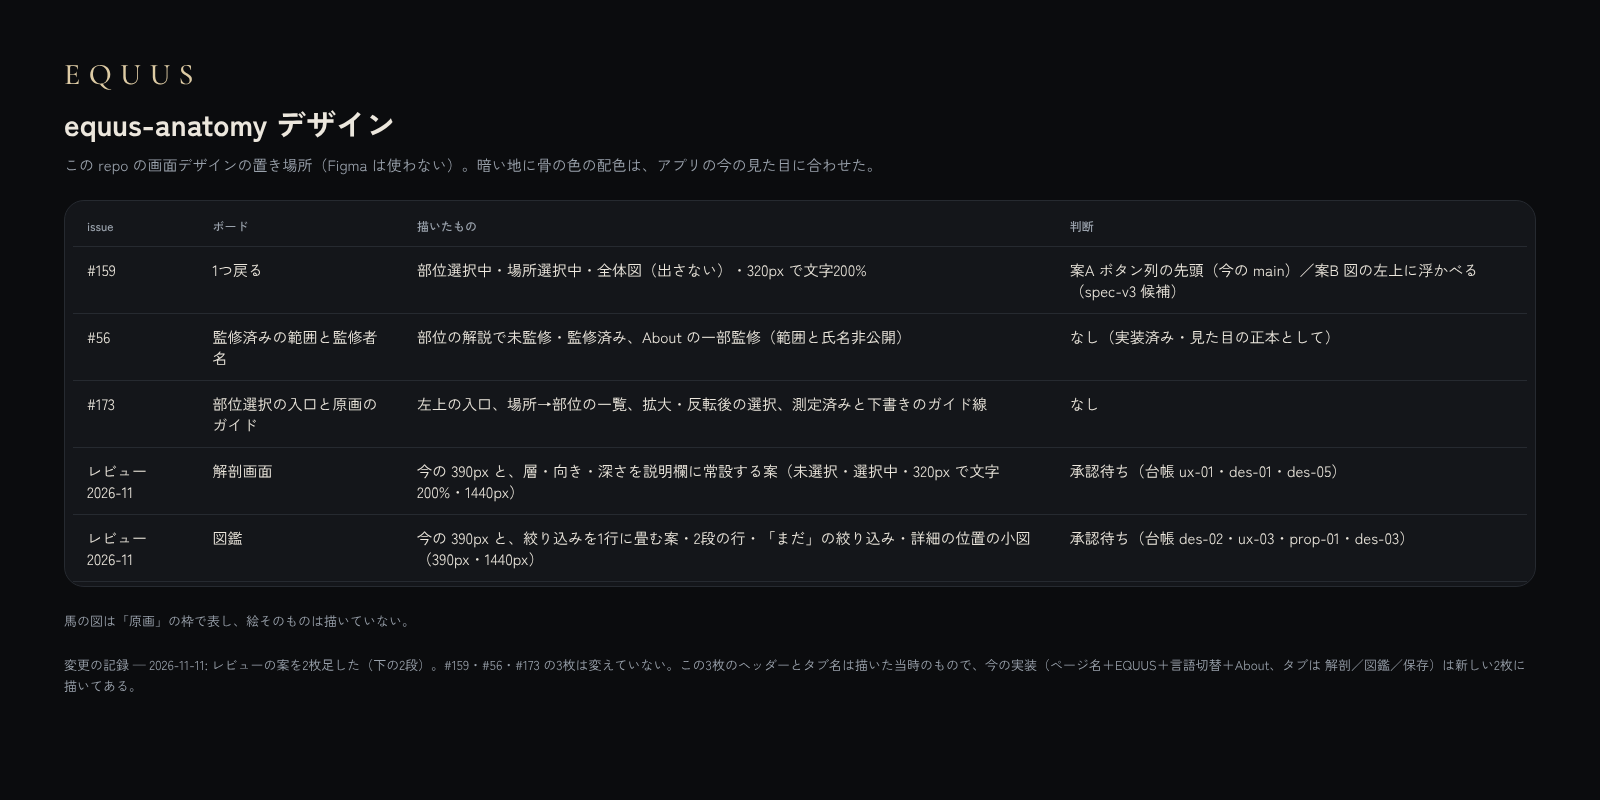
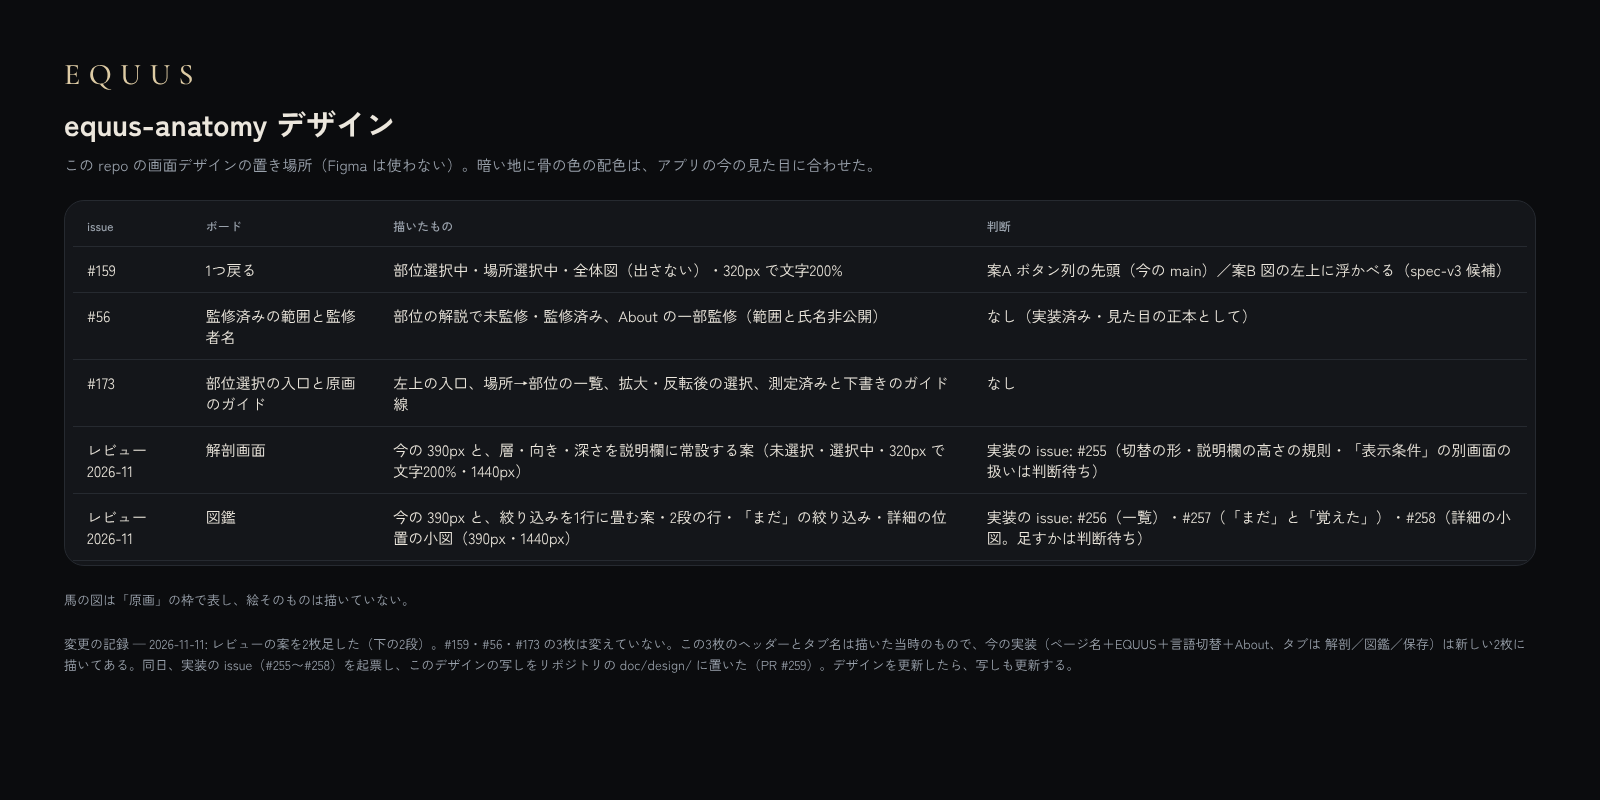
docs(design): sync the design copy with the artifact (issue numbers added)
デザインアーティファクトに実装の issue 番号（#255〜#258）を書き入れたので、写しを合わせる。

Claude-Session: https://claude.ai/code/session_01BTMj33ADX396Jynxg3c2XN

diff --git a/doc/design/project/Main.dc.html b/doc/design/project/Main.dc.html
@@ -28,12 +28,12 @@
       <tr><td>#159</td><td>1つ戻る</td><td>部位選択中・場所選択中・全体図（出さない）・320px で文字200%</td><td>案A ボタン列の先頭（今の main）／案B 図の左上に浮かべる（spec-v3 候補）</td></tr>
       <tr><td>#56</td><td>監修済みの範囲と監修者名</td><td>部位の解説で未監修・監修済み、About の一部監修（範囲と氏名非公開）</td><td>なし（実装済み・見た目の正本として）</td></tr>
       <tr><td>#173</td><td>部位選択の入口と原画のガイド</td><td>左上の入口、場所→部位の一覧、拡大・反転後の選択、測定済みと下書きのガイド線</td><td>なし</td></tr>
-      <tr><td>レビュー 2026-11</td><td>解剖画面</td><td>今の 390px と、層・向き・深さを説明欄に常設する案（未選択・選択中・320px で文字200%・1440px）</td><td>承認待ち（台帳 ux-01・des-01・des-05）</td></tr>
-      <tr><td>レビュー 2026-11</td><td>図鑑</td><td>今の 390px と、絞り込みを1行に畳む案・2段の行・「まだ」の絞り込み・詳細の位置の小図（390px・1440px）</td><td>承認待ち（台帳 des-02・ux-03・prop-01・des-03）</td></tr>
+      <tr><td>レビュー 2026-11</td><td>解剖画面</td><td>今の 390px と、層・向き・深さを説明欄に常設する案（未選択・選択中・320px で文字200%・1440px）</td><td>実装の issue: #255（切替の形・説明欄の高さの規則・「表示条件」の別画面の扱いは判断待ち）</td></tr>
+      <tr><td>レビュー 2026-11</td><td>図鑑</td><td>今の 390px と、絞り込みを1行に畳む案・2段の行・「まだ」の絞り込み・詳細の位置の小図（390px・1440px）</td><td>実装の issue: #256（一覧）・#257（「まだ」と「覚えた」）・#258（詳細の小図。足すかは判断待ち）</td></tr>
     </table>
   </div>
   <p class="sub" style="min-height: 0">馬の図は「原画」の枠で表し、絵そのものは描いていない。</p>
-  <p class="sub" style="min-height: 0">変更の記録 — 2026-11-11: レビューの案を2枚足した（下の2段）。#159・#56・#173 の3枚は変えていない。この3枚のヘッダーとタブ名は描いた当時のもので、今の実装（ページ名＋EQUUS＋言語切替＋About、タブは 解剖／図鑑／保存）は新しい2枚に描いてある。</p>
+  <p class="sub" style="min-height: 0">変更の記録 — 2026-11-11: レビューの案を2枚足した（下の2段）。#159・#56・#173 の3枚は変えていない。この3枚のヘッダーとタブ名は描いた当時のもので、今の実装（ページ名＋EQUUS＋言語切替＋About、タブは 解剖／図鑑／保存）は新しい2枚に描いてある。同日、実装の issue（#255〜#258）を起票し、このデザインの写しをリポジトリの doc/design/ に置いた（PR #259）。デザインを更新したら、写しも更新する。</p>
 </div>
 </x-dc>
 <script type="text/x-dc" data-dc-script data-props='{"$preview":{"width":1600,"height":800}}'>

diff --git a/doc/design/project/review-2026-11-anatomy.dc.html b/doc/design/project/review-2026-11-anatomy.dc.html
@@ -198,7 +198,7 @@
       </div>
       <div class="nav2" style="height: 52px"><span class="on">解剖</span><span>図鑑</span><span>保存</span></div>
     </div>
-    <p class="sub" style="min-height: 0">青い枠は、今の画面に無くて足す所。対応する指摘: equus-anatomy-ux-01・des-01・des-05（レビュー指摘台帳）。まだ承認前の案。</p>
+    <p class="sub" style="min-height: 0">青い枠は、今の画面に無くて足す所。実装の issue: kouiso/equus-anatomy#255。切替の形・説明欄の高さの規則・「表示条件」の別画面の扱いは、issue の「決まっていない点」で判断待ち。</p>
   </div>
 
 </div>

diff --git a/doc/design/project/review-2026-11-catalog.dc.html b/doc/design/project/review-2026-11-catalog.dc.html
@@ -215,7 +215,7 @@
       </div>
       <div class="nav2" style="height: 52px"><span>解剖</span><span class="on">図鑑</span><span>保存</span></div>
     </div>
-    <p class="sub" style="min-height: 0">青い枠は、今の画面に無くて足す所。対応する指摘: equus-anatomy-des-02・ux-03・prop-01・des-03（レビュー指摘台帳）。まだ承認前の案。</p>
+    <p class="sub" style="min-height: 0">青い枠は、今の画面に無くて足す所。実装の issue: kouiso/equus-anatomy#256（一覧）・#257（「まだ」と「覚えた」）・#258（詳細の小図。足すかは判断待ち）。</p>
   </div>
 
 </div>

diff --git a/doc/design/README.md b/doc/design/README.md
@@ -4,7 +4,7 @@
 
 - **正はアーティファクト**: https://claude.ai/artifact/Ci1ZaRA6LFrL1Pv7bPewWp
 - ここは、実装する人が読むための写しです。アーティファクトを更新したら、ここも更新します。
-- 写した日時: 2026-11-11 14:43 UTC（アーティファクトの版 1794406670-11d5）
+- 写した日時: 2026-11-11 14:47 UTC（アーティファクトの版 1794408404-f4e3）
 
 ## 入っている画面
 
